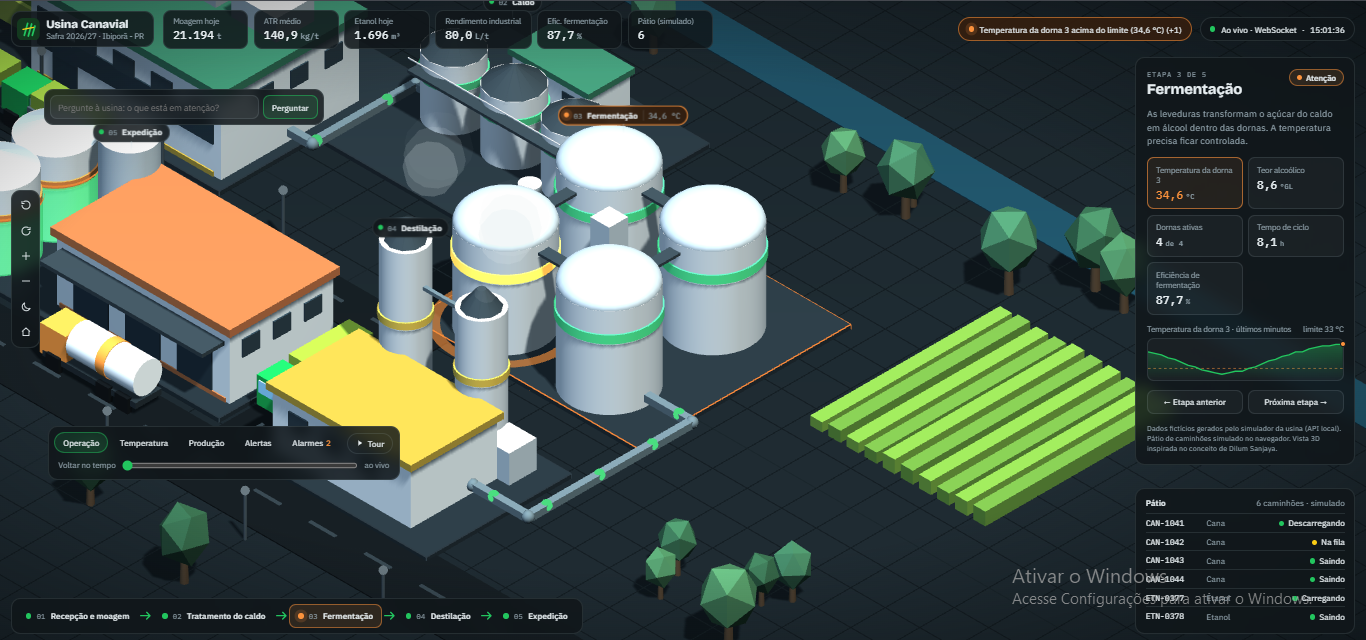
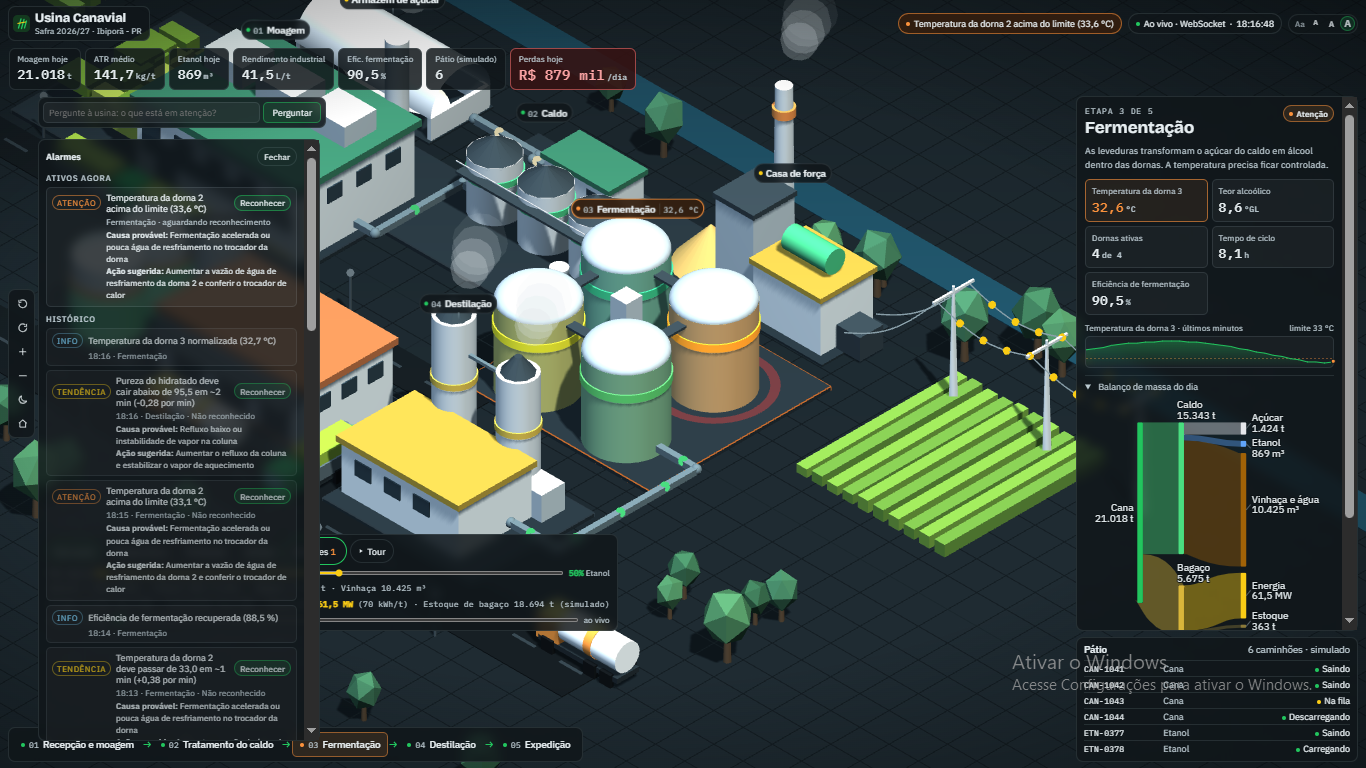
Capturas novas e legendas

diff --git a/README.md b/README.md
@@ -3,10 +3,10 @@
 Painel web em vista 3D isométrica que acompanha uma usina de cana-de-açúcar, da moagem à expedição. A cena, os indicadores e os alarmes são alimentados por uma API real (FastAPI + SQLite) e por um simulador. O painel 2D original continua disponível em `/2d`.
 
 ![Painel 3D da usina](docs/painel3d.png)
-*Vista 3D da usina com alerta da dorna 3.*
+*Vista geral da usina em 3D, com a casa de força e a linha de transmissão, o contador de perdas em R$/dia no topo e o Sankey do balanço de massa no painel lateral.*
 
 ![Detalhe da fermentação](docs/fermentacao-alerta.png)
-*Detalhe da fermentação: dorna 3 acima do limite de temperatura.*
+*Lista de alarmes com causa provável e ação sugerida em cada item (limite e tendência), com a dorna em alerta de temperatura na cena e no painel.*
 
 ![Previsão de etanol](docs/previsao.png)
 *Previsão de etanol para os próximos 5 dias, com intervalo de confiança de 80%.*
